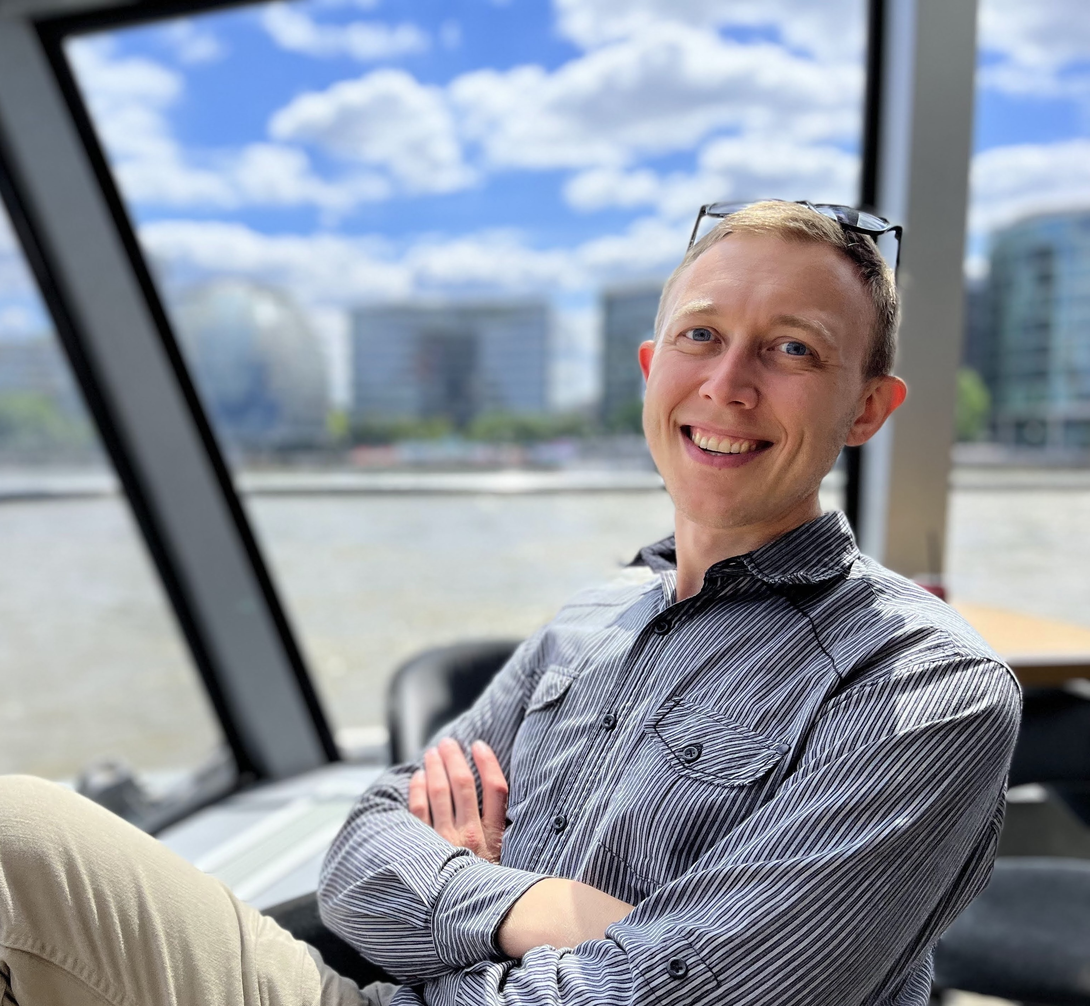
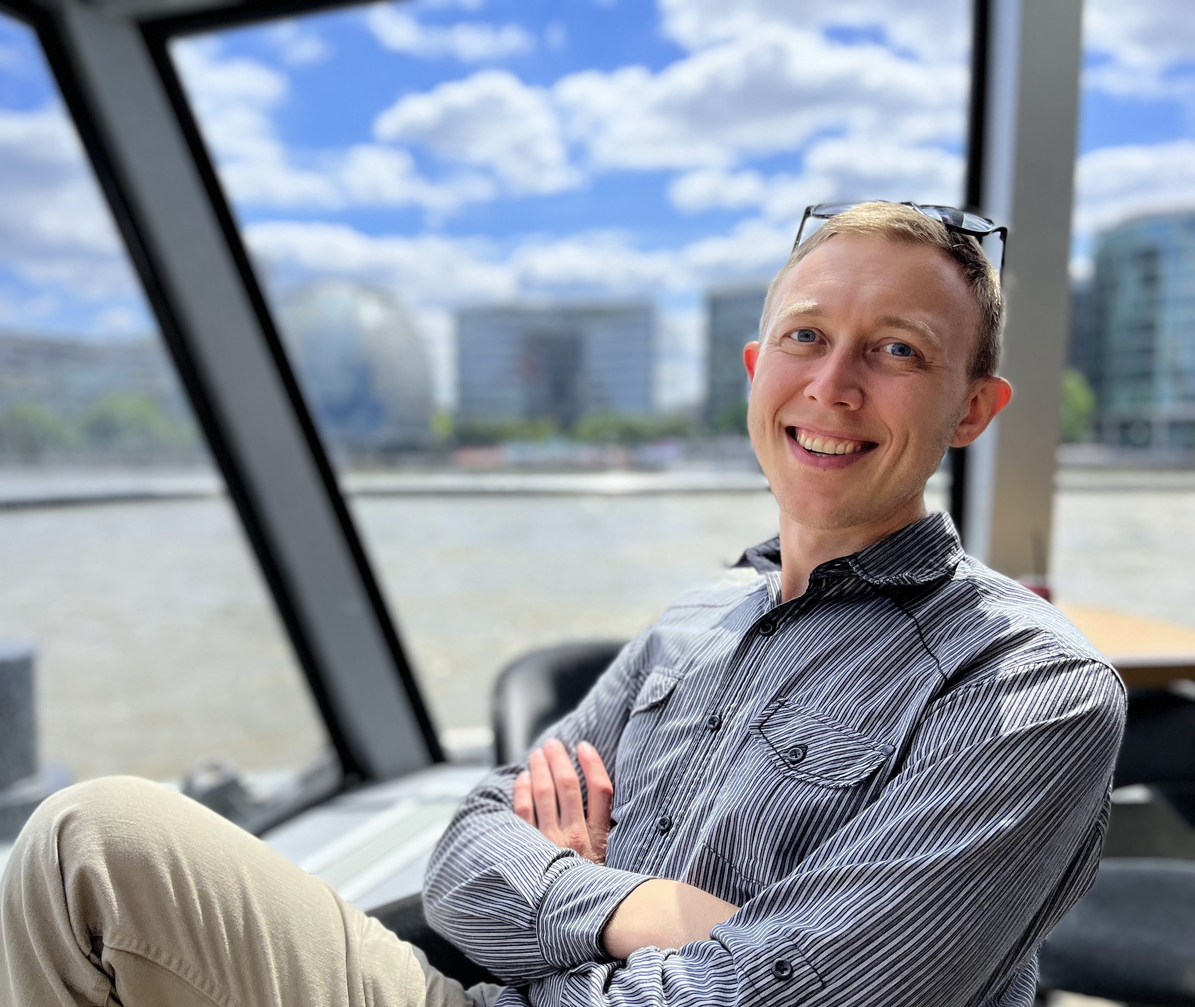
Again resize hero image for mobile

diff --git a/index.html b/index.html
@@ -74,29 +74,7 @@
   </header><!-- End Header -->
 
   <!-- ======= Hero Section ======= -->
-  <div id="hero" class="hero route bg-image" style="background-image: url(static/img/a_weinandy_in_london2.jpg)">
-<!--  <div id="hero" class="hero route bg-image" delete-->
-<!--     style="background-image:url(static/img/a_weinandy_in_london.jpg);-->
-<!--            background-position: 50% 20%;">  &lt;!&ndash; move focal point upward &ndash;&gt;-->
-<!--  </div>-->
-
-<!--    <div id="hero" class="hero route">-->
-<!--      <img src="static/img/a_weinandy_in_london.jpg" alt="Thomas Weinandy"-->
-<!--           class="hero-img">-->
-<!--    </div>-->
-
-<!--  <section id="hero" class="hero route">-->
-<!--    <picture>-->
-<!--      &lt;!&ndash; Mobile-optimized image &ndash;&gt;-->
-<!--      <source media="(max-width: 576px)" srcset="static/img/a_weinandy_in_london_mobile.jpg">-->
-<!--      &lt;!&ndash; Default / desktop image &ndash;&gt;-->
-<!--      <img src="static/img/a_weinandy_in_london.jpg"-->
-<!--           alt="Thomas Weinandy" class="w-100 d-block">-->
-<!--    </picture>-->
-<!--  </section>-->
-
-
-
+  <div id="hero" class="hero route bg-image" style="background-image: url(static/img/a_weinandy_in_london3.jpg)">
     <div class="overlay-itro"></div>
     <div class="hero-content display-table">
       <div class="table-cell">
